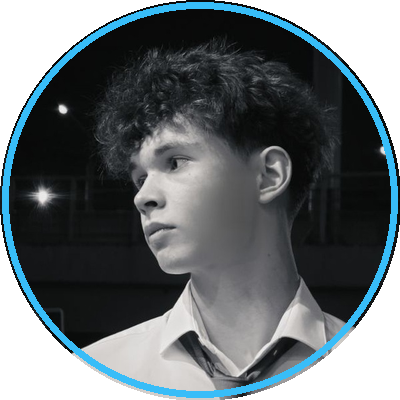
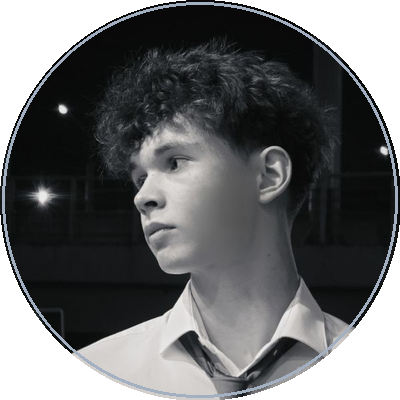
feat: adopt restrained, minimalist, high-taste engineering portfolio style

Changed region(s): [[0.0, 0.0, 1.0, 1.0]]

diff --git a/README.md b/README.md
@@ -1,167 +1,136 @@
 <div align="center">
 
-<!-- HEADER WAVE BANNER -->
-<img src="https://capsule-render.vercel.app/api?type=waving&color=gradient&customColorList=6,14,24,31&height=220&section=header&text=Aleksandr%20Sorokoletov&fontSize=46&fontColor=ffffff&animation=fadeIn&fontAlignY=36&desc=Machine%20Learning%20Engineer%20%E2%80%A2%20Deep%20Learning%20%E2%80%A2%20RecSys%20%26%20NLP&descFontSize=19&descAlignY=58&descAlign=50" width="100%" alt="Header Banner" />
-
-<!-- AVATAR PHOTO -->
-<a href="https://github.com/Elate11">
-  <img src="assets/avatar_round.png" width="155" height="155" alt="Aleksandr Sorokoletov" />
-</a>
-
-<br/><br/>
-
-<!-- TYPING ANIMATION (ML FOCUSED) -->
-<a href="https://github.com/Elate11">
-  <img src="https://readme-typing-svg.demolab.com?font=JetBrains+Mono&weight=700&size=20&duration=3000&pause=1000&color=38BDF8&center=true&vCenter=true&width=740&lines=Machine+Learning+Engineer+%7C+Deep+Learning+%26+Applied+AI;RecSys%3A+Two-Tower+Candidate+Retrieval+%26+NeuMF+Ranking;NLP%3A+Transformers%2C+DistilBERT+Fine-Tuning+%26+Summarization;Production+ML%3A+FastAPI+Inference%2C+Docker+%26+Optimization;BSUIR+Software+Engineering+Student+'29" alt="Typing SVG" />
-</a>
-
-<br/><br/>
-
-<!-- QUICK CONTACT PILLS -->
-<a href="https://t.me/e1ate"><img src="https://img.shields.io/badge/Telegram-@e1ate-2CA5E0?style=for-the-badge&logo=telegram&logoColor=white" alt="Telegram" /></a>
-<a href="mailto:alex.sorokoletov08@gmail.com"><img src="https://img.shields.io/badge/Gmail-alex.sorokoletov08%40gmail.com-EA4335?style=for-the-badge&logo=gmail&logoColor=white" alt="Gmail" /></a>
-<a href="https://www.bsuir.by/"><img src="https://img.shields.io/badge/BSUIR-Software%20Engineering-0052CC?style=for-the-badge&logo=google-scholar&logoColor=white" alt="BSUIR" /></a>
-<a href="#-избранные-проекты-в-ml--featured-projects"><img src="https://img.shields.io/badge/Minsk%2C%20Belarus-📍-black?style=for-the-badge" alt="Location" /></a>
-
-</div>
-
 <br/>
 
----
-
-### 🧠 ML Engineer Profile & Research Focus
-
-```jsonc
-{
-  "engineer": "Александр Сороколетов (Aleksandr Sorokoletov)",
-  "role": "Machine Learning Engineer / Applied AI Researcher",
-  "education": "BSUIR (Белорусский государственный университет информатики и радиоэлектроники)",
-  "faculty": "Факультет компьютерного проектирования | Программная инженерия (2025–2029)",
-  "location": "Minsk, Belarus 🇧🇾",
-  "ml_specialization": [
-    "Recommendation Systems (Two-Tower Retrieval, Neural Collaborative Filtering / NeuMF)",
-    "Natural Language Processing (Transformers, DistilBERT fine-tuning, Summarization benchmarks)",
-    "Efficient ML Inference (CPU optimization, model serving with FastAPI & Docker)",
-    "Audio DSP & Signal Processing (spectral analysis, real-time feature extraction)"
-  ],
-  "current_focus": "Ranking algorithms, multi-stage recommender pipelines, LLM fine-tuning & inference acceleration",
-  "engineering_motto": "From rigorous mathematical foundations to resilient, low-latency production ML systems"
-}
-```
-
----
-
-### 🛠 ML & Engineering Stack
-
-<div align="center">
-
-#### 🔬 Машинное обучение, Data Science и Инференс
-<!-- CRISP DARK SKILL ICONS -->
-<a href="https://skillicons.dev">
-  <img src="https://skillicons.dev/icons?i=pytorch,tensorflow,scikitlearn,opencv,python,fastapi,docker,postgres,c,cpp,swift,linux,git,bash&perline=7" alt="ML & Dev Tech Stack" />
+<a href="https://github.com/Elate11">
+  <img src="assets/avatar_round.png" width="125" height="125" alt="Aleksandr Sorokoletov" />
 </a>
 
-<br/><br/>
+<h1 align="center" style="border-bottom: none; margin-top: 12px; margin-bottom: 4px;">Aleksandr Sorokoletov</h1>
 
-<!-- ML DOMAIN & ARCHITECTURE BADGES -->
+<p align="center" style="font-size: 1.1rem; color: #8b949e; margin-top: 0;">
+  <b>Machine Learning Engineer</b> &bull; <b>Systems &amp; Backend Developer</b>
+</p>
+
+<p align="center" style="font-size: 0.95rem; color: #58a6ff; font-family: -apple-system, BlinkMacSystemFont, 'Segoe UI', Helvetica, Arial, sans-serif;">
+  BSUIR &middot; Software Engineering '29 &nbsp;|&nbsp; Minsk, Belarus
+</p>
+
 <p align="center">
-  <img src="https://img.shields.io/badge/Two--Tower%20Retrieval-38BDF8?style=flat-square&logo=pytorch&logoColor=white" />
-  <img src="https://img.shields.io/badge/Neural%20Collaborative%20Filtering%20(NeuMF)-818CF8?style=flat-square" />
-  <img src="https://img.shields.io/badge/HuggingFace%20%26%20Transformers-FFD21E?style=flat-square&logo=huggingface&logoColor=black" />
-  <img src="https://img.shields.io/badge/DistilBERT%20Fine--Tuning-FF6F00?style=flat-square" />
-  <img src="https://img.shields.io/badge/Ranking%20Metrics%20(NDCG%20%2F%20Recall@K)-34D399?style=flat-square" />
-  <img src="https://img.shields.io/badge/Model%20Quantization%20%26%20Serving-F472B6?style=flat-square" />
-  <img src="https://img.shields.io/badge/Digital%20Signal%20Processing%20(Audio%20DSP)-00599C?style=flat-square&logo=c%2B%2B&logoColor=white" />
+  <a href="https://t.me/e1ate"><img src="https://img.shields.io/badge/Telegram-@e1ate-1f2328?style=flat-square&logo=telegram&logoColor=29b6f6" alt="Telegram" /></a>
+  &nbsp;
+  <a href="mailto:alex.sorokoletov08@gmail.com"><img src="https://img.shields.io/badge/Email-alex.sorokoletov08@gmail.com-1f2328?style=flat-square&logo=gmail&logoColor=ea4335" alt="Email" /></a>
+  &nbsp;
+  <a href="https://www.bsuir.by/"><img src="https://img.shields.io/badge/University-BSUIR-1f2328?style=flat-square&logo=google-scholar&logoColor=ffffff" alt="BSUIR" /></a>
+  &nbsp;
+  <a href="https://github.com/Elate11"><img src="https://img.shields.io/badge/GitHub-Elate11-1f2328?style=flat-square&logo=github&logoColor=ffffff" alt="GitHub" /></a>
 </p>
 
 </div>
 
 ---
 
-### 🌟 Избранные проекты в ML / Featured Projects
+### Обо мне / Summary
+
+Студент факультета компьютерного проектирования БГУИР (направление «Программная инженерия», 2025–2029).
+
+Специализируюсь на **машинном обучении** (рекомендательные системы, NLP), **низкоуровневой обработке сигналов** и **высоконагруженной бэкенд-архитектуре**:
+- **Applied ML & RecSys:** проектирование многостадийных рекомендательных систем — отбор кандидатов (Two-Tower архитектура), нейросетевое ранжирование (NeuMF), дообучение трансформеров (DistilBERT) и оптимизация инференса под ограничения железа.
+- **Systems & Signal Processing:** разработка многопоточных аудио-пайплайнов реального времени на C++20 с низкой задержкой (low-latency DSP, CoreAudio, спектральный анализ).
+- **Backend & Distributed Systems:** построение отказоустойчивых сервисов на Python / FastAPI / PostgreSQL, решение проблем конкурентности данных (race conditions, транзакции ACID, пессимистические блокировки) и асинхронные очереди задач.
+
+---
+
+### Стек технологий / Core Stack
 
 <table>
-  <!-- ROW 1: RecSys & NLP Toolkit -->
+  <tr>
+    <td width="25%" valign="top"><b>Machine Learning</b></td>
+    <td>
+      <code>PyTorch</code> &bull; <code>HuggingFace</code> &bull; <code>Transformers</code> &bull; <code>Scikit-Learn</code> &bull; <code>Pandas</code> &bull; <code>NumPy</code> &bull; <code>OpenCV</code>
+      <br/>
+      <small><i>Two-Tower retrieval, Neural Collaborative Filtering, ranking metrics (NDCG, Recall@K), quantization</i></small>
+    </td>
+  </tr>
+  <tr>
+    <td width="25%" valign="top"><b>Languages</b></td>
+    <td>
+      <code>Python</code> &bull; <code>C++20</code> &bull; <code>Swift</code> &bull; <code>SQL</code> &bull; <code>Kotlin</code> &bull; <code>Bash</code>
+    </td>
+  </tr>
+  <tr>
+    <td width="25%" valign="top"><b>Backend & Infra</b></td>
+    <td>
+      <code>FastAPI</code> &bull; <code>PostgreSQL</code> &bull; <code>Redis</code> &bull; <code>Docker</code> &bull; <code>Docker Compose</code> &bull; <code>Celery</code> &bull; <code>WebSockets</code> &bull; <code>Git</code> &bull; <code>Linux</code>
+    </td>
+  </tr>
+  <tr>
+    <td width="25%" valign="top"><b>Systems & Concepts</b></td>
+    <td>
+      <code>Digital Signal Processing (DSP)</code> &bull; <code>CoreAudio</code> &bull; <code>ACID & Concurrency Control</code> &bull; <code>Idempotency</code> &bull; <code>Clean Architecture</code>
+    </td>
+  </tr>
+</table>
+
+---
+
+### Избранные проекты / Featured Projects
+
+<table>
+  <!-- PROJECT 1: RecSys -->
   <tr>
     <td width="50%" valign="top">
-      <div align="center">
-        <br/>
-        <img src="https://skillicons.dev/icons?i=pytorch,fastapi,docker,python" alt="RecSys Stack" />
-        <br/><br/>
-        <h3><a href="https://github.com/Elate11/recsys">🛍 RecSys Engine & Two-Tower Architecture</a></h3>
-        <p>
-          <img src="https://img.shields.io/badge/PyTorch-EE4C2C?style=flat-square&logo=pytorch&logoColor=white" />
-          <img src="https://img.shields.io/badge/RecSys-Two--Tower-38BDF8?style=flat-square" />
-          <img src="https://img.shields.io/badge/FastAPI-Production%20API-009688?style=flat-square&logo=fastapi&logoColor=white" />
-        </p>
-      </div>
-      <p>Сквозная рекомендательная система для e-commerce: от эвристических бейзлайнов популярности до нейросетевых архитектур ранжирования и поиска кандидатов.</p>
+      <h4><a href="https://github.com/Elate11/recsys">🛍 RecSys: Two-Tower & Neural Ranking</a></h4>
+      <p style="color: #8b949e; font-size: 0.9rem;">
+        <i>PyTorch &middot; FastAPI &middot; Docker &middot; NeuMF</i>
+      </p>
+      <p>Многостадийный рекомендательный пайплайн для e-commerce: от эвристических бейзлайнов до нейросетевых архитектур поиска кандидатов и ранжирования.</p>
       <ul>
-        <li>🏗 <b>Архитектуры:</b> реализация и сравнение <b>NeuMF</b> (Neural Matrix Factorization) и двухбашенной <b>Two-Tower</b> модели с разделением пользователей и айтемов на эмбеддинги.</li>
-        <li>📈 <b>Оценка качества:</b> расчёт метрик ранжирования <code>NDCG@K</code>, <code>Precision@K</code>, <code>Recall@K</code> на валидационной выборке.</li>
-        <li>🚀 <b>Production Serving:</b> упаковка модели в асинхронный REST API на FastAPI и развертывание в Docker для инференса в реальном времени.</li>
+        <li>Реализация и сравнение <b>NeuMF</b> и двухбашенной <b>Two-Tower</b> модели с разделением пользователей и товаров на векторные представления (эмбеддинги).</li>
+        <li>Оценка ранжирования по метрикам <code>NDCG@K</code>, <code>Precision@K</code>, <code>Recall@K</code> на валидационном корпусе.</li>
+        <li>Упаковка инференса в асинхронный REST API на FastAPI в контейнере Docker.</li>
       </ul>
     </td>
+    <!-- PROJECT 2: NLP Toolkit -->
     <td width="50%" valign="top">
-      <div align="center">
-        <br/>
-        <img src="https://skillicons.dev/icons?i=python,pytorch,huggingface,fastapi" alt="NLP Stack" />
-        <br/><br/>
-        <h3><a href="https://github.com/Elate11/sentiment_analysis_project">📝 NLP Toolkit: Sentiment & Summarization</a></h3>
-        <p>
-          <img src="https://img.shields.io/badge/DistilBERT-Fine--Tuning-FFD21E?style=flat-square&logo=huggingface&logoColor=black" />
-          <img src="https://img.shields.io/badge/Transformers-NLP-FF6F00?style=flat-square" />
-          <img src="https://img.shields.io/badge/CPU%20Optimization-Inference-34D399?style=flat-square" />
-        </p>
-      </div>
-      <p>Пайплайн анализа тональности текста и бенчмарк методов суммаризации текстов с оптимизацией инференса под ограничения CPU.</p>
+      <h4><a href="https://github.com/Elate11/sentiment_analysis_project">📝 NLP Toolkit: Classification & Summarization</a></h4>
+      <p style="color: #8b949e; font-size: 0.9rem;">
+        <i>PyTorch &middot; HuggingFace &middot; Transformers &middot; DistilBERT</i>
+      </p>
+      <p>Сквозной пайплайн анализа тональности текста и бенчмарк методов автоматической суммаризации с оптимизацией под CPU.</p>
       <ul>
-        <li>🎯 <b>Fine-Tuning:</b> дообучение модели <code>distilbert-base-uncased</code> на корпусе пользовательских отзывов с достижением высокой F1-score.</li>
-        <li>🔬 <b>Бенчмарк суммаризации:</b> сравнительный анализ экстрактивного и абстрактивного подходов по качеству сжатия и сохранению контекста.</li>
-        <li>⚡ <b>Inference Optimization:</b> подбор параметров батчинга и квантования для минимальной задержки (latency) инференса на CPU.</li>
+        <li>Fine-tuning <code>distilbert-base-uncased</code> на корпусе отзывов с сохранением высокой обобщающей способности.</li>
+        <li>Сравнительный бенчмарк экстрактивной и абстрактивной суммаризации (сохранение фактологии против связности).</li>
+        <li>Оптимизация задержки (latency) инференса на CPU через квантование и эффективный батчинг.</li>
       </ul>
     </td>
   </tr>
 
-  <!-- ROW 2: AuraSound Audio ML & Risk Scoring / BSUIR -->
+  <!-- PROJECT 3: AuraSound Max -->
   <tr>
     <td width="50%" valign="top">
-      <div align="center">
-        <a href="https://github.com/Elate11/AuraSound">
-          <img src="https://raw.githubusercontent.com/Elate11/AuraSound/main/docs/logo.png" width="85" alt="AuraSound Logo" style="border-radius: 12px; margin-bottom: 6px;" />
-        </a>
-        <br/>
-        <h3><a href="https://github.com/Elate11/AuraSound">🎵 AuraSound Max: Audio DSP & Signal Engine</a></h3>
-        <p>
-          <img src="https://img.shields.io/badge/C%2B%2B20-Low--Latency-00599C?style=flat-square&logo=c%2B%2B&logoColor=white" />
-          <img src="https://img.shields.io/badge/Audio%20DSP-Spectral%20Analysis-FA7343?style=flat-square" />
-          <img src="https://img.shields.io/badge/SwiftUI-macOS-000000?style=flat-square&logo=apple&logoColor=white" />
-        </p>
-      </div>
-      <p>Системный аудиокомбайн и DSP-процессор для macOS с фазовой акустической компенсацией задержки через микрофон и аппаратным микшером.</p>
+      <h4><a href="https://github.com/Elate11/AuraSound">🎵 AuraSound Max: Real-Time Audio DSP</a></h4>
+      <p style="color: #8b949e; font-size: 0.9rem;">
+        <i>C++20 &middot; Swift &middot; macOS CoreAudio &middot; DSP</i>
+      </p>
+      <p>Профессиональный аудиокомбайн и DSP-процессор для macOS с фазовой компенсацией задержки через микрофон и аппаратным микшером.</p>
       <ul>
-        <li>🌊 <b>Цифровая обработка сигналов (DSP):</b> фазовый анализ, фильтрация частот и алгоритмы компенсации задержки звуковой волны в пространстве.</li>
-        <li>⚡ <b>Высокая производительность:</b> многопоточный C++ аудио-пайплайн с околонулевым джиттером, критичный для real-time audio ML.</li>
-        <li>🎛 <b>Интеграция:</b> нативный GUI на Swift/SwiftUI с отображением спектрограммы в реальном времени.</li>
+        <li>Многопоточный low-latency аудиопайплайн на C++20 с минимальным джиттером потока данных.</li>
+        <li>Интеграция с виртуальными аудиодрайверами macOS и маршрутизация на уровне CoreAudio.</li>
+        <li>Анализ фазы звуковой волны и акустическая компенсация пространственной задержки.</li>
       </ul>
     </td>
+    <!-- PROJECT 4: High-Concurrency Backend -->
     <td width="50%" valign="top">
-      <div align="center">
-        <br/>
-        <img src="https://skillicons.dev/icons?i=python,scikitlearn,postgres,docker" alt="ML Engineering Stack" />
-        <br/><br/>
-        <h3><a href="https://github.com/Elate11/ml-course-homeworks">📊 ML Foundations & Risk Modeling</a></h3>
-        <p>
-          <img src="https://img.shields.io/badge/Scikit--Learn-Classic%20ML-F7931E?style=flat-square&logo=scikitlearn&logoColor=white" />
-          <img src="https://img.shields.io/badge/Feature%20Engineering-Data%20Pipes-38BDF8?style=flat-square" />
-          <img src="https://img.shields.io/badge/Jupyter-Research-F37626?style=flat-square&logo=jupyter&logoColor=white" />
-        </p>
-      </div>
-      <p>Исследования классических алгоритмов машинного обучения, скоринговых моделей и пайплайнов предобработки данных.</p>
+      <h4>🎟 High-Concurrency Ticket Booking API</h4>
+      <p style="color: #8b949e; font-size: 0.9rem;">
+        <i>FastAPI &middot; PostgreSQL &middot; Redis &middot; Celery &middot; WebSockets</i>
+      </p>
+      <p>Отказоустойчивый сервис бронирования, спроектированный для защиты от race conditions в условиях пиковых параллельных нагрузок.</p>
       <ul>
-        <li>📉 <b>Алгоритмическая база:</b> градиентный бустинг, ансамбли моделей, оптимизация функций потерь и регуляризация.</li>
-        <li>🔍 <b>Feature Engineering:</b> работа с разреженными матрицами, категоризация, кодирование признаков и борьба с мультиколлинеарностью.</li>
-        <li>🧪 <b>Валидация:</b> стратифицированная кросс-валидация, анализ ROC-AUC / PR-AUC и калибровка вероятностей.</li>
+        <li>Защита от двойных броней: транзакции ACID, пессимистические блокировки <code>SELECT ... FOR UPDATE</code> и уникальные ограничения БД.</li>
+        <li>Временное холдирование мест на 5 минут через Redis с автоматическим освобождением по TTL.</li>
+        <li>Асинхронные очереди (Celery) и передача изменений карты зала в реальном времени через WebSockets.</li>
       </ul>
     </td>
   </tr>
@@ -169,7 +138,7 @@
 
 ---
 
-### 📊 Статистика активности / GitHub Stats
+### Аналитика активности / Activity
 
 <div align="center">
 
@@ -177,12 +146,12 @@
   <tr>
     <td>
       <a href="https://github.com/Elate11">
-        <img height="185em" src="https://github-readme-stats.vercel.app/api?username=Elate11&show_icons=true&theme=tokyonight&hide_border=false&border_color=38bdf8&border_radius=10&bg_color=0d1117&title_color=38bdf8&icon_color=818cf8&text_color=94a3b8" alt="GitHub Stats" />
+        <img height="175em" src="https://github-readme-stats.vercel.app/api?username=Elate11&show_icons=true&theme=github_dark&hide_border=true&bg_color=0d1117&title_color=58a6ff&icon_color=79c0ff&text_color=8b949e" alt="GitHub Stats" />
       </a>
     </td>
     <td>
       <a href="https://github.com/Elate11">
-        <img height="185em" src="https://github-readme-stats.vercel.app/api/top-langs/?username=Elate11&layout=compact&theme=tokyonight&hide_border=false&border_color=38bdf8&border_radius=10&bg_color=0d1117&title_color=38bdf8&text_color=94a3b8" alt="Top Languages" />
+        <img height="175em" src="https://github-readme-stats.vercel.app/api/top-langs/?username=Elate11&layout=compact&theme=github_dark&hide_border=true&bg_color=0d1117&title_color=58a6ff&text_color=8b949e" alt="Top Languages" />
       </a>
     </td>
   </tr>
@@ -191,38 +160,13 @@
 <br/>
 
 <a href="https://github.com/Elate11">
-  <img src="https://github-readme-streak-stats.herokuapp.com/?user=Elate11&theme=tokyonight&hide_border=false&border=38bdf8&border_radius=10&background=0d1117&ring=38bdf8&fire=818cf8&currStreakLabel=38bdf8" alt="GitHub Streak" />
+  <img src="https://github-readme-streak-stats.herokuapp.com/?user=Elate11&theme=github-dark-blue&hide_border=true&background=0d1117&ring=58a6ff&fire=58a6ff&currStreakLabel=58a6ff" alt="GitHub Streak" />
 </a>
-
-<br/><br/>
-
-<!-- CONTRIBUTION SNAKE ANIMATION -->
-<h4>🐍 Contribution Activity Game</h4>
-<picture>
-  <source media="(prefers-color-scheme: dark)" srcset="https://raw.githubusercontent.com/Elate11/Elate11/output/github-contribution-grid-snake-dark.svg">
-  <source media="(prefers-color-scheme: light)" srcset="https://raw.githubusercontent.com/Elate11/Elate11/output/github-contribution-grid-snake.svg">
-  <img alt="GitHub Contribution Snake" src="https://raw.githubusercontent.com/Elate11/Elate11/output/github-contribution-grid-snake-dark.svg">
-</picture>
 
 </div>
 
 ---
 
-### 💬 Связаться со мной / Connect With Me
-
 <div align="center">
-
-[![Telegram](https://img.shields.io/badge/Telegram-@e1ate-2CA5E0?style=for-the-badge&logo=telegram&logoColor=white)](https://t.me/e1ate)
-&nbsp;&nbsp;
-[![Email](https://img.shields.io/badge/Gmail-alex.sorokoletov08%40gmail.com-EA4335?style=for-the-badge&logo=gmail&logoColor=white)](mailto:alex.sorokoletov08@gmail.com)
-&nbsp;&nbsp;
-[![GitHub](https://img.shields.io/badge/GitHub-Elate11-181717?style=for-the-badge&logo=github&logoColor=white)](https://github.com/Elate11)
-
-<br/><br/>
-
-🚀 *Открыт к предложениям и стажировкам в сфере Machine Learning, RecSys, NLP и Applied Deep Learning.*
-
+  <sub>Aleksandr Sorokoletov &middot; BSUIR Software Engineering '29 &middot; Minsk</sub>
 </div>
-
-<!-- FOOTER WAVE -->
-<img src="https://capsule-render.vercel.app/api?type=waving&color=gradient&customColorList=31,24,14,6&height=110&section=footer" width="100%" alt="Footer Wave" />
